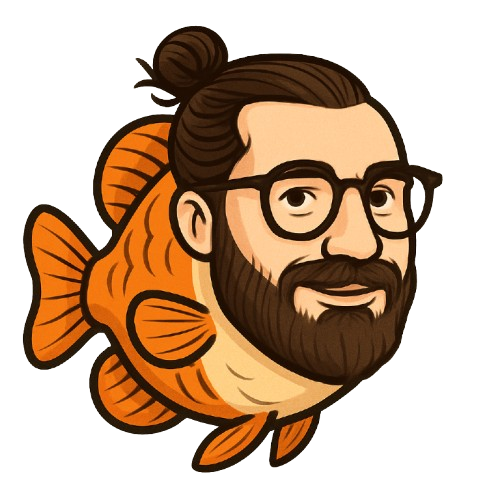
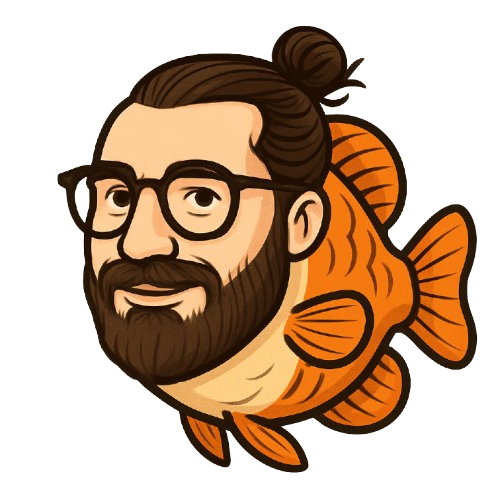
add alex fish

diff --git a/components/aquarium/AquariumContainer.tsx b/components/aquarium/AquariumContainer.tsx
@@ -34,6 +34,13 @@ const AquariumContainer = () => {
 
   // Track which fishes are currently added
   const [addedFishIds, setAddedFishIds] = useState<number[]>([]);
+  // Track if Alex has been added
+  const [alexAdded, setAlexAdded] = useState(false);
+  // Track Alex's angle (direction in radians)
+  const [alexAngle, setAlexAngle] = useState(Math.random() * 2 * Math.PI);
+
+  // Alex fish data
+  const alexFish = { id: 99, type: 'custom-image', imageUrl: '/Alex.png', size: 'xxl', speed: 1, yPosition: 50 };
 
   // Go Crazy mode
   const [goCrazy, setGoCrazy] = useState(false);
@@ -53,6 +60,11 @@ const AquariumContainer = () => {
     }, {} as Record<number, 'left' | 'right'>)
   );
 
+  // Add Alex to fishData and state when needed
+  const allFishData = useMemo(() => {
+    return alexAdded ? [...fishData, alexFish] : fishData;
+  }, [fishData, alexAdded]);
+
   const aquariumAudioRef = useRef<HTMLAudioElement>(null);
   const rickrollAudioRef = useRef<HTMLAudioElement>(null);
 
@@ -64,29 +76,33 @@ const AquariumContainer = () => {
         let newPositions = { ...prevPositions };
         setFishDirections(prevDirections => {
           let newDirections = { ...prevDirections };
-          fishData.forEach(fish => {
-            const prev = prevPositions[fish.id];
-            const direction = prevDirections[fish.id];
+          allFishData.forEach(fish => {
+            const prev = prevPositions[fish.id] || { x: 50, y: 50 };
+            const direction = prevDirections[fish.id] || 'right';
 
             // --- TEMPERATURE EFFECTS & GO CRAZY ---
             let tempSpeed = fish.speed;
-            if (temperature <= 20) tempSpeed *= 0.5;
-            else if (temperature >= 28) tempSpeed *= 1.5;
-            if (goCrazy) tempSpeed = 15;
+            if (fish.id !== 99) { // normal fish
+              if (temperature <= 20) tempSpeed *= 0.5;
+              else if (temperature >= 28) tempSpeed *= 1.5;
+              if (goCrazy) tempSpeed = 15;
+            } else { // Alex
+              tempSpeed *= 2; // even faster
+            }
 
             const swimSpeed = tempSpeed * (0.02 + Math.random() * 0.01);
 
             // Cluster (cold): move toward center X
             let clusterOffset = 0;
-            if (temperature <= 20) {
+            if (fish.id !== 99 && temperature <= 20) {
               clusterOffset = (50 - prev.x) * 0.02; // drift toward center
             }
             // Swim to top (hot): move Y upward
             let heatLift = 0;
-            if (temperature >= 28) {
+            if (fish.id !== 99 && temperature >= 28) {
               heatLift = -0.2 * (temperature - 27); // stronger lift if hotter
             }
-            if (goCrazy) {
+            if (goCrazy && fish.id !== 99) {
               // Randomly flip direction often
               if (Math.random() < 0.2) {
                 newDirections[fish.id] = direction === 'right' ? 'left' : 'right';
@@ -95,24 +111,49 @@ const AquariumContainer = () => {
               heatLift += (Math.random() - 0.5) * 2;
             }
 
-            let newX = direction === 'right' ? prev.x + swimSpeed : prev.x - swimSpeed;
-            newX += clusterOffset;
-            const verticalMovement = Math.sin(Date.now() / 2000 + fish.id) * 0.3;
-            let newY = prev.y + verticalMovement + heatLift;
-
-            // Clamp based on fish size so fish never leaves aquarium
-            const sizeToHalfWidth = { xs: 2, sm: 3, md: 4, lg: 6, xl: 8 }; // in percent
-            const halfWidth = sizeToHalfWidth[fish.size as keyof typeof sizeToHalfWidth] || 4;
-            const minX = halfWidth;
-            const maxX = 100 - halfWidth;
-            if (newX > maxX) {
-              newDirections[fish.id] = 'left';
-              newX = maxX;
-            } else if (newX < minX) {
-              newDirections[fish.id] = 'right';
-              newX = minX;
+            // Alex: smooth movement
+            let newX, newY;
+            if (fish.id === 99) {
+              // Move along persistent angle
+              let angle = alexAngle;
+              newX = prev.x + Math.cos(angle) * tempSpeed * 0.5;
+              newY = prev.y + Math.sin(angle) * tempSpeed * 0.5;
+              // Clamp to aquarium
+              let bounced = false;
+              if (newX < 8 || newX > 92) {
+                angle = Math.PI - angle + (Math.random() - 0.5) * 0.5; // bounce and randomize a bit
+                newX = Math.max(8, Math.min(92, newX));
+                bounced = true;
+              }
+              if (newY < 8 || newY > 92) {
+                angle = -angle + (Math.random() - 0.5) * 0.5;
+                newY = Math.max(8, Math.min(92, newY));
+                bounced = true;
+              }
+              // Occasionally randomize angle for erratic but smooth movement
+              if (Math.random() < 0.01 || bounced) {
+                angle = angle + (Math.random() - 0.5) * 1.2;
+              }
+              setAlexAngle(angle);
+            } else {
+              newX = direction === 'right' ? prev.x + swimSpeed : prev.x - swimSpeed;
+              newX += clusterOffset;
+              const verticalMovement = Math.sin(Date.now() / 2000 + fish.id) * 0.3;
+              newY = prev.y + verticalMovement + heatLift;
+              // Clamp based on fish size so fish never leaves aquarium
+              const sizeToHalfWidth = { xs: 2, sm: 3, md: 4, lg: 6, xl: 8, xxl: 12 };
+              const halfWidth = sizeToHalfWidth[fish.size as keyof typeof sizeToHalfWidth] || 4;
+              const minX = halfWidth;
+              const maxX = 100 - halfWidth;
+              if (newX > maxX) {
+                newDirections[fish.id] = 'left';
+                newX = maxX;
+              } else if (newX < minX) {
+                newDirections[fish.id] = 'right';
+                newX = minX;
+              }
+              newY = Math.max(10, Math.min(85, newY));
             }
-            newY = Math.max(10, Math.min(85, newY));
             newPositions[fish.id] = { x: newX, y: newY };
           });
           return newDirections;
@@ -123,7 +164,7 @@ const AquariumContainer = () => {
     };
     animFrame = requestAnimationFrame(animate);
     return () => cancelAnimationFrame(animFrame);
-  }, [fishData, temperature, goCrazy]);
+  }, [allFishData, temperature, goCrazy, alexAngle]);
 
   useEffect(() => {
     if (aquariumAudioRef.current) {
@@ -160,7 +201,7 @@ const AquariumContainer = () => {
 
 
   return (
-    <div className="w-screen h-screen relative rounded-lg overflow-hidden shadow-2xl transition-all duration-300">
+    <div className="w-full h-screen max-h-[100dvh] relative rounded-lg overflow-hidden shadow-2xl transition-all duration-300">
       {/* Ambient aquarium sound */}
       <audio ref={aquariumAudioRef} src="/fish-tank.mp3" autoPlay loop style={{ display: 'none' }} />
       {/* Rick Roll sound */}
@@ -180,67 +221,73 @@ const AquariumContainer = () => {
       {/* Glass effect overlay */}
       <div className="absolute inset-0 bg-white/5 backdrop-blur-[1px]"></div>
 
-      {/* Night/day toggle */}
-      <div className="absolute top-4 right-4 z-10 flex gap-2">
-        <Button
-          variant="outline"
-          size="icon"
-          onClick={toggleNightMode}
-          className="bg-white/10 backdrop-blur-sm hover:bg-white/20 transition-all"
-        >
-          {isNightMode ? <SunIcon className="h-5 w-5 text-yellow-300" /> : <MoonIcon className="h-5 w-5 text-blue-100" />}
-        </Button>
-        <Button
-          variant="outline"
-          size="icon"
-          onClick={() => setIsMuted(m => !m)}
-          className="bg-white/10 backdrop-blur-sm hover:bg-white/20 transition-all"
-        >
-          {isMuted ? (
-            <span role="img" aria-label="Unmute">🔇</span>
-          ) : (
-            <span role="img" aria-label="Mute">🔊</span>
-          )}
-        </Button>
-        <Button
-          variant="default"
-          disabled={addedFishIds.length >= fishData.length}
-          onClick={() => {
-            if (addedFishIds.length < fishData.length) {
-              // remove the random function from the array and make it random from the remaining fish
-              const remainingFish = fishData.filter(fish => !addedFishIds.includes(fish.id));
-              const randomFish = remainingFish[Math.floor(Math.random() * remainingFish.length)];
-              setAddedFishIds(ids => [...ids, randomFish.id]);
-            }
-          }}
-        >
-          Add Fish
-        </Button>
-        <Button
-          variant="secondary"
-          disabled={addedFishIds.length === 0}
-          onClick={() => {
-            setAddedFishIds(ids => ids.slice(0, -1));
-          }}
-        >
-          Remove Fish
-        </Button>
-        <Button
-          variant="default"
-          disabled={addedFishIds.length === fishData.length}
-          onClick={() => setAddedFishIds(fishData.map(f => f.id))}
-        >
-          Add All Fish
-        </Button>
+      {/* Night/day toggle and controls */}
+      <div className="absolute top-4 right-4 z-10 flex flex-col sm:flex-row gap-2">
+        <div className="flex gap-2">
+          <Button
+            variant="outline"
+            size="icon"
+            onClick={toggleNightMode}
+            className="bg-white/10 backdrop-blur-sm hover:bg-white/20 transition-all"
+          >
+            {isNightMode ? <SunIcon className="h-5 w-5 text-yellow-300" /> : <MoonIcon className="h-5 w-5 text-blue-100" />}
+          </Button>
+          <Button
+            variant="outline"
+            size="icon"
+            onClick={() => setIsMuted(m => !m)}
+            className="bg-white/10 backdrop-blur-sm hover:bg-white/20 transition-all"
+          >
+            {isMuted ? (
+              <span role="img" aria-label="Unmute">🔇</span>
+            ) : (
+              <span role="img" aria-label="Mute">🔊</span>
+            )}
+          </Button>
+        </div>
+        <div className="flex flex-wrap gap-2">
+          <Button
+            variant="default"
+            size="sm"
+            disabled={addedFishIds.length >= fishData.length}
+            onClick={() => {
+              if (addedFishIds.length < fishData.length) {
+                const remainingFish = fishData.filter(fish => !addedFishIds.includes(fish.id));
+                const randomFish = remainingFish[Math.floor(Math.random() * remainingFish.length)];
+                setAddedFishIds(ids => [...ids, randomFish.id]);
+              }
+            }}
+          >
+            Add Fish
+          </Button>
+          <Button
+            variant="secondary"
+            size="sm"
+            disabled={addedFishIds.length === 0}
+            onClick={() => {
+              setAddedFishIds(ids => ids.slice(0, -1));
+            }}
+          >
+            Remove Fish
+          </Button>
+          <Button
+            variant="default"
+            size="sm"
+            disabled={addedFishIds.length === fishData.length}
+            onClick={() => setAddedFishIds(fishData.map(f => f.id))}
+          >
+            Add All
+          </Button>
+        </div>
       </div>
 
       {/* Temperature control */}
-      <div className="absolute top-4 left-4 z-10 flex items-center gap-4">
+      <div className="absolute top-4 left-4 z-10 flex flex-col sm:flex-row items-center gap-4">
         <ThermometerDisplay temperature={temperature} />
-        <div className="flex flex-col gap-2">
+        <div className="flex flex-row sm:flex-col gap-2">
           <Button
             variant="outline"
-            size="lg"
+            size="sm"
             onClick={() => adjustTemperature(1)}
             className="h-8 w-8 p-0 bg-white/10 backdrop-blur-sm hover:bg-white/20 text-xl"
           >
@@ -248,7 +295,7 @@ const AquariumContainer = () => {
           </Button>
           <Button
             variant="outline"
-            size="lg"
+            size="sm"
             onClick={() => adjustTemperature(-1)}
             className="h-8 w-8 p-0 bg-white/10 backdrop-blur-sm hover:bg-white/20 text-xl"
           >
@@ -257,19 +304,45 @@ const AquariumContainer = () => {
         </div>
         <Button
           variant={goCrazy ? "destructive" : "default"}
-          className="ml-4 animate-pulse"
+          size="sm"
+          className="ml-0 sm:ml-4 animate-pulse"
           onClick={() => setGoCrazy(crazy => !crazy)}
         >
           {goCrazy ? "Stop This Madness" : "Go Crazy"}
         </Button>
       </div>
 
+      {/* We Need Help Button */}
+      {addedFishIds.length === fishData.length && !alexAdded && (
+        <div className="absolute top-4 left-1/2 -translate-x-1/2 z-20 flex justify-center">
+          <Button
+            variant="destructive"
+            size="lg"
+            className="animate-bounce shadow-xl"
+            onClick={() => {
+              setAlexAdded(true);
+              setFishPositions(prev => ({
+                ...prev,
+                99: { x: Math.random() * 80 + 10, y: 50 },
+              }));
+              setFishDirections(prev => ({
+                ...prev,
+                99: Math.random() > 0.5 ? 'right' : 'left',
+              }));
+              setAlexAngle(Math.random() * 2 * Math.PI);
+            }}
+          >
+            We Need Help
+          </Button>
+        </div>
+      )}
+
       {/* Fish components */}
-      {fishData.filter(fish => addedFishIds.includes(fish.id)).map((fish) => (
+      {allFishData.filter(fish => addedFishIds.includes(fish.id) || fish.id === 99 && alexAdded).map((fish) => (
         <Fish
           key={fish.id}
           {...fish}
-          size={fish.size as "xl" | "lg" | "md" | "sm" | "xs"}
+          size={fish.size as "xl" | "lg" | "md" | "sm" | "xs" | "xxl"}
           isNightMode={isNightMode}
           position={fishPositions[fish.id]}
           direction={fishDirections[fish.id]}

diff --git a/components/aquarium/Fish.tsx b/components/aquarium/Fish.tsx
@@ -6,7 +6,7 @@ import Image from 'next/image';
 type FishProps = {
   type: string;
   imageUrl?: string;
-  size: 'xs' | 'sm' | 'md' | 'lg' | 'xl';
+  size: 'xs' | 'sm' | 'md' | 'lg' | 'xl' | 'xxl';
   yPosition: number;
   isNightMode: boolean;
   position: { x: number; y: number };
@@ -21,11 +21,12 @@ const Fish = ({ type, imageUrl, size, isNightMode, position, direction, temperat
 
   // Size mapping for image-based fish
   const imageSizeClasses = {
-    xs: 'w-16 h-16',
-    sm: 'w-24 h-24',
-    md: 'w-32 h-32',
-    lg: 'w-40 h-40',
-    xl: 'w-48 h-48',
+    xs: 'w-12 h-12 sm:w-16 sm:h-16',
+    sm: 'w-16 h-16 sm:w-24 sm:h-24',
+    md: 'w-24 h-24 sm:w-32 sm:h-32',
+    lg: 'w-32 h-32 sm:w-40 sm:h-40',
+    xl: 'w-40 h-40 sm:w-48 sm:h-48',
+    xxl: 'w-56 h-56 sm:w-72 sm:h-72',
   };
 
   // Faded if cold, extra bright if hot
